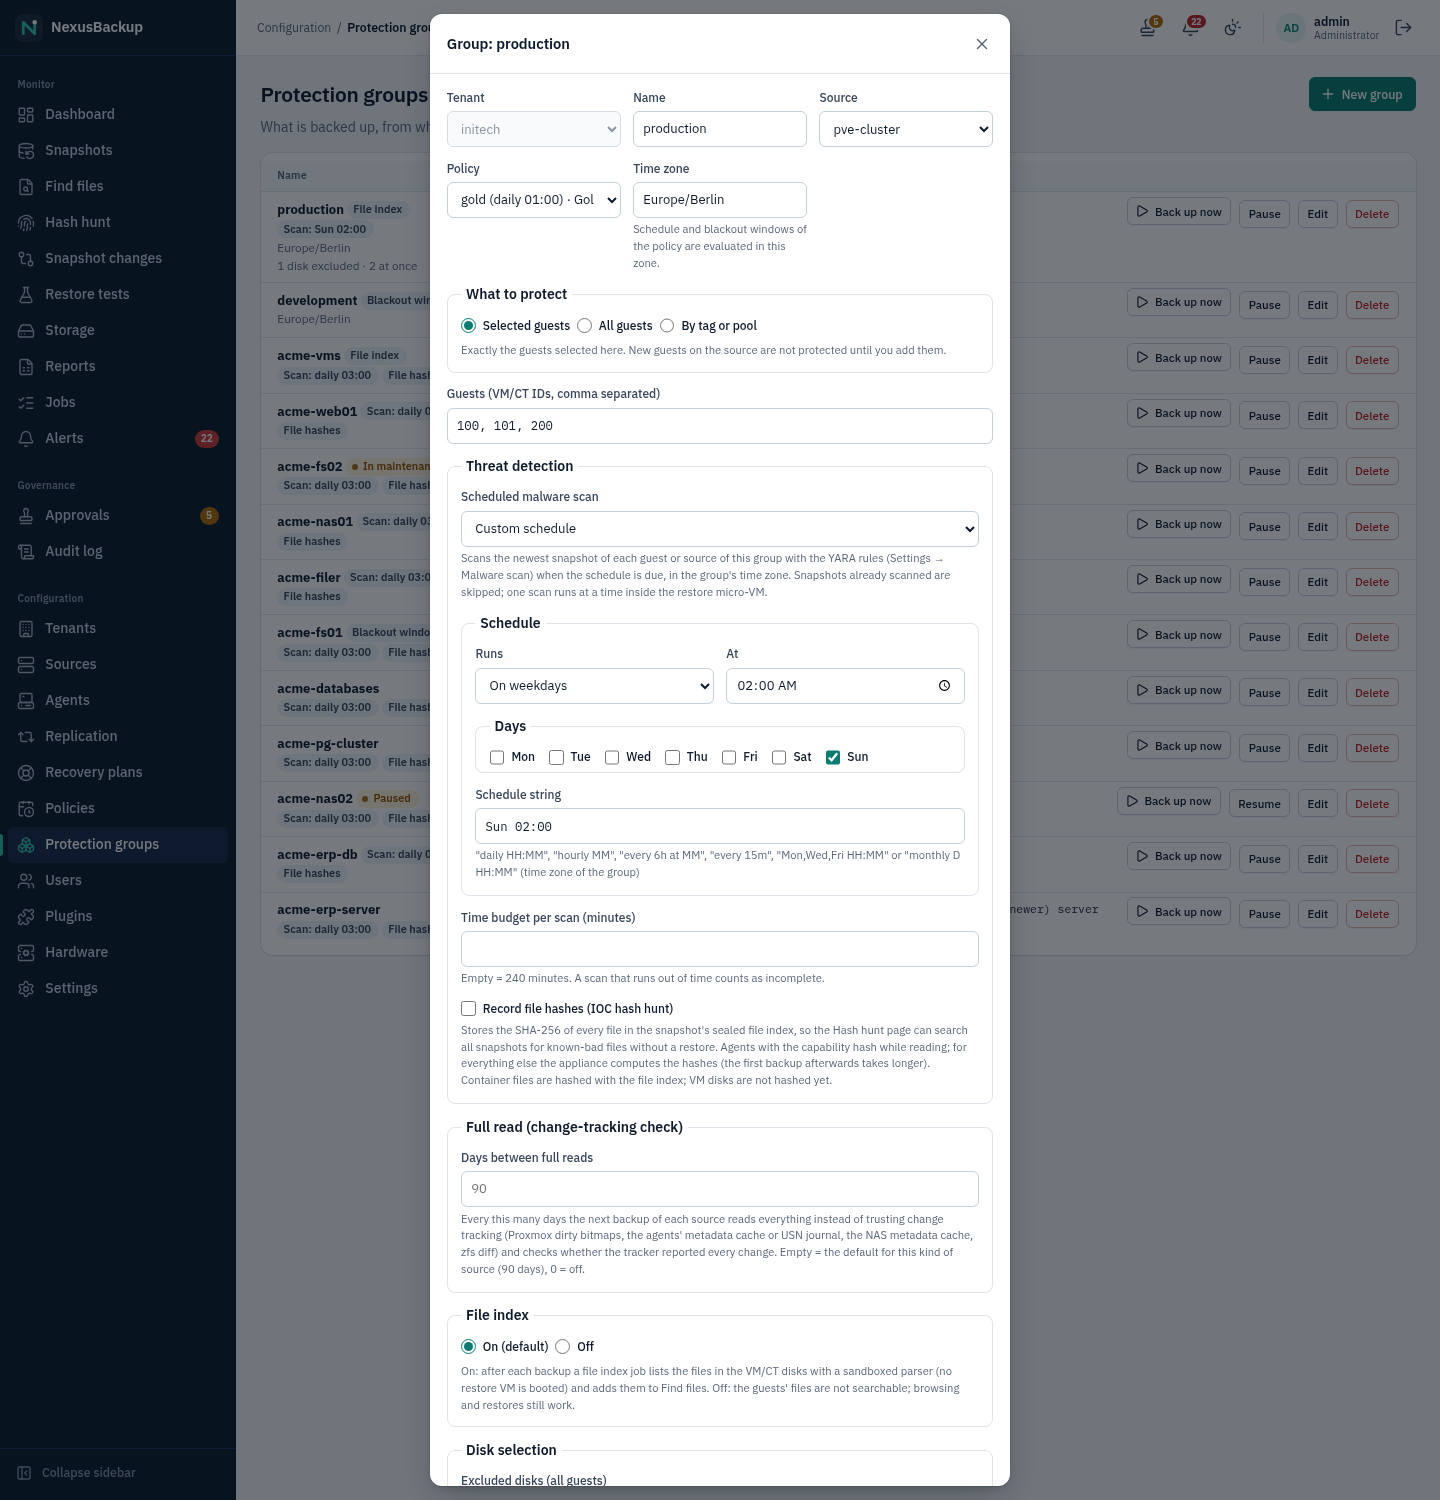
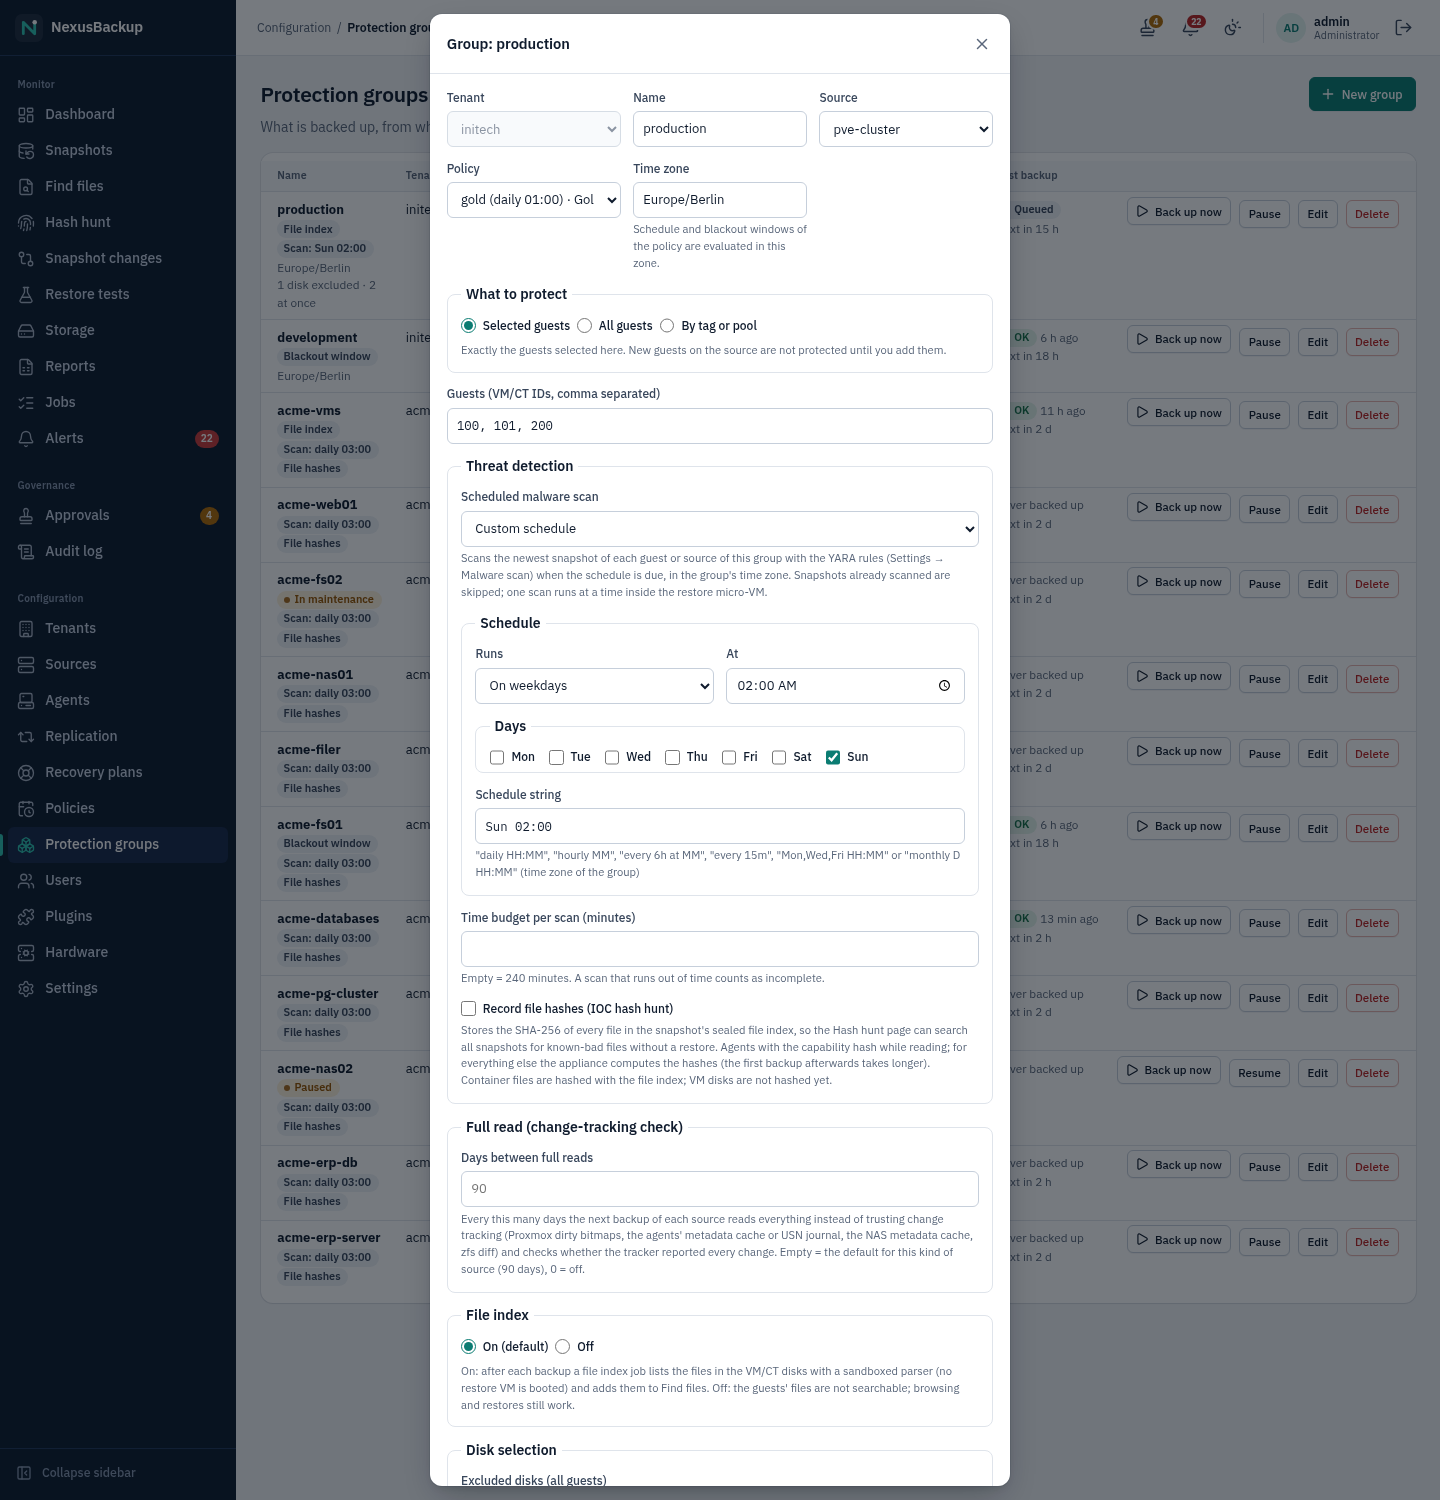
UI protection groups: last backup (state, when, link to the job) and the next scheduled start per group
GET /groups returns last_backup (newest backup job of the group, one pass over the
jobs) and next_backup (the policy schedule in the group's time zone).

diff --git a/web/src/pages/Groups.svelte b/web/src/pages/Groups.svelte
@@ -5,7 +5,8 @@
   import { get, post, put, del, act, errText } from '../lib/api';
   import { notify } from '../lib/notify.svelte';
   import { href } from '../lib/router.svelte';
-  import { fmtAgo, fmtBytes, fmtTime } from '../lib/format';
+  import { fmtAgo, fmtBytes, fmtIn, fmtTime } from '../lib/format';
+  import JobState from '../components/JobState.svelte';
   import { t } from '../lib/i18n';
   import { runJob } from '../lib/jobs';
   import { isPluginKind, pluginKinds } from '../lib/plugins';
@@ -447,6 +448,7 @@
             <th scope="col">{t.groups.source}</th>
             <th scope="col">{t.groups.policy}</th>
             <th scope="col">{t.groups.guestsShort}</th>
+            <th scope="col">{t.groups.lastBackup}</th>
             <th scope="col"><span class="visually-hidden">{t.actions}</span></th>
           </tr>
         </thead>
@@ -482,6 +484,21 @@
                     ? x.guests.map(guestText).join(', ')
                     : kindTitle(sources.find((s) => s.id === x.source_id)?.kind ?? '')}{/if}</td
               >
+              <td class="nowrap">
+                {#if x.last_backup}
+                  <a href={href(`/jobs/${x.last_backup.id}`)} class="plain-link"
+                    ><JobState state={x.last_backup.state} /></a
+                  >
+                  {#if x.last_backup.finished}<span class="muted small" title={fmtTime(x.last_backup.finished)}
+                      >{fmtAgo(x.last_backup.finished)}</span
+                    >{/if}
+                {:else}
+                  <span class="muted small">{t.groups.neverBackedUp}</span>
+                {/if}
+                {#if x.next_backup && !isPaused(x.paused_until)}<div class="muted small" title={fmtTime(x.next_backup)}>
+                    {t.groups.nextBackup(fmtIn(x.next_backup))}
+                  </div>{/if}
+              </td>
               <td class="actions">
                 {#if can.backup(session.user)}
                   <button

diff --git a/web/mock/api.ts b/web/mock/api.ts
@@ -1833,11 +1833,28 @@ function checkTz(tz: unknown): string {
 }
 
 /** GET /groups: run state (paused, source maintenance, active blackout window). */
+/** The next start of a policy schedule (demo: exact for `daily HH:MM` in UTC, else one period ahead). */
+function nextStart(schedule: string | undefined): number | null {
+  if (!schedule || !parseSchedule(schedule)) return null;
+  const d = /^daily (\d\d):(\d\d)$/.exec(schedule);
+  if (d) {
+    const day = Math.floor(now() / DAY) * DAY + Number(d[1]) * 3600 + Number(d[2]) * 60;
+    return day > now() ? day : day + DAY;
+  }
+  return now() + Math.max(300, schedulePeriod(schedule));
+}
+
 function groupState(g: (typeof db.groups)[number]) {
   const pol = db.policies.find((p) => p.id === g.policy_id);
   const src = db.sources.find((s) => s.id === g.source_id);
+  // like the API: the newest backup job of the group and the next scheduled start
+  const lastJob = db.jobs
+    .filter((j) => (j.kind === 'backup' || j.kind === 'plugin_backup') && j.params.group_id === g.id)
+    .sort((a, b) => b.id - a.id)[0];
   return {
     ...g,
+    last_backup: lastJob ? { id: lastJob.id, state: lastJob.state, started: lastJob.started, finished: lastJob.finished } : null,
+    next_backup: nextStart(pol?.schedule),
     timezone: g.timezone ?? 'UTC',
     paused_until: g.paused_until ?? null,
     index_files: g.index_files ?? false,

diff --git a/web/src/lib/format.ts b/web/src/lib/format.ts
@@ -15,6 +15,16 @@ export function fmtAgo(ts: number | null | undefined, now = Date.now() / 1000): 
   return t.ago.d(Math.round(d / 86400));
 }
 
+/** A time ahead as "in 25 min", "in 3 h", "in 2 d" ("now" when due). */
+export function fmtIn(ts: number | null | undefined, now = Date.now() / 1000): string {
+  if (!ts) return '—';
+  const d = ts - now;
+  if (d < 90) return t.inTime.now;
+  if (d < 5400) return t.inTime.min(Math.round(d / 60));
+  if (d < 129600) return t.inTime.h(Math.round(d / 3600));
+  return t.inTime.d(Math.round(d / 86400));
+}
+
 export function fmtBytes(n: number | null | undefined): string {
   if (n === null || n === undefined) return '—';
   const u = ['B', 'KiB', 'MiB', 'GiB', 'TiB', 'PiB'];

diff --git a/web/src/lib/i18n.ts b/web/src/lib/i18n.ts
@@ -48,6 +48,12 @@ export const en = {
     tenant_user: "Tenant user",
     viewer: "Viewer",
   } as Record<string, string>,
+  inTime: {
+    now: "now",
+    min: (n: number) => `in ${n} min`,
+    h: (n: number) => `in ${n} h`,
+    d: (n: number) => `in ${n} d`,
+  },
   ago: {
     never: "never",
     now: "just now",
@@ -1641,6 +1647,9 @@ export const en = {
     tierHint: "Shown in the SLA report and on the Tenants page.",
   },
   groups: {
+    lastBackup: "Last backup",
+    neverBackedUp: "never backed up",
+    nextBackup: (when: string) => `next ${when}`,
     title: "Protection groups",
     lede: "What is backed up, from which source and under which policy.",
     new: "New group",

diff --git a/web/src/lib/types.ts b/web/src/lib/types.ts
@@ -716,6 +716,9 @@ export interface FileFilters {
 }
 
 export interface Group {
+  /** GET /groups: the newest backup job of the group (null: never) and the next scheduled start (null: none) */
+  last_backup?: { id: number; state: JobState; started: number | null; finished: number | null } | null;
+  next_backup?: number | null;
   id: number;
   tenant: string;
   source_id: number;

diff --git a/crates/web-api/src/runctl.rs b/crates/web-api/src/runctl.rs
@@ -50,13 +50,38 @@ fn resolved_guests(c: &Connection, group_id: i64) -> ApiResult<Vec<Value>> {
 /// `resolved_guests` (what a backup of the group covers now).
 pub fn group_states(c: &Connection, mut rows: Vec<Value>) -> ApiResult<Vec<Value>> {
     let now = catalog::now();
+    // the newest backup job of every group (one pass over the jobs), for "last backup"
+    let mut last: std::collections::HashMap<i64, Value> = std::collections::HashMap::new();
+    let mut st = c.prepare(
+        "SELECT j.id, j.state, j.started, j.finished, json_extract(j.params, '$.group_id') FROM jobs j
+         JOIN (SELECT MAX(id) AS id FROM jobs WHERE kind IN ('backup', 'plugin_backup')
+               AND json_extract(params, '$.group_id') IS NOT NULL
+               GROUP BY json_extract(params, '$.group_id')) m ON m.id = j.id",
+    )?;
+    for r in st.query_map([], |r| {
+        Ok((
+            r.get::<_, i64>(4)?,
+            json!({"id": r.get::<_, i64>(0)?, "state": r.get::<_, String>(1)?,
+                   "started": r.get::<_, Option<i64>>(2)?, "finished": r.get::<_, Option<i64>>(3)?}),
+        ))
+    })? {
+        let (g, j) = r?;
+        last.insert(g, j);
+    }
     for g in rows.iter_mut() {
-        let (paused, maint, blackout): (Option<i64>, Option<i64>, String) = c.query_row(
-            "SELECT g.paused_until, s.maintenance_until, p.blackout FROM groups g
+        let (paused, maint, blackout, schedule): (Option<i64>, Option<i64>, String, String) = c.query_row(
+            "SELECT g.paused_until, s.maintenance_until, p.blackout, p.schedule FROM groups g
              JOIN sources s ON s.id = g.source_id JOIN policies p ON p.id = g.policy_id WHERE g.id = ?1",
             [g["id"].as_i64()],
-            |r| Ok((r.get(0)?, r.get(1)?, r.get(2)?)),
+            |r| Ok((r.get(0)?, r.get(1)?, r.get(2)?, r.get(3)?)),
         )?;
+        let id = g["id"].as_i64().unwrap_or_default();
+        g["last_backup"] = last.remove(&id).unwrap_or(Value::Null);
+        // when the policy's schedule next starts a backup (in the group's time zone)
+        g["next_backup"] = json!(schedule::Schedule::parse(&schedule)
+            .and_then(|s| s.in_tz(g["timezone"].as_str().unwrap_or("UTC")))
+            .ok()
+            .and_then(|s| s.next_slot(now)));
         let windows: Vec<Window> = serde_json::from_str(&blackout).unwrap_or_default();
         let active = schedule::tz(g["timezone"].as_str().unwrap_or("UTC"))
             .ok()

diff --git a/crates/web-api/tests/runctl.rs b/crates/web-api/tests/runctl.rs
@@ -537,3 +537,25 @@ async fn job_detail_lists_its_follow_ups() {
         2
     );
 }
+
+/// The groups list says how the last backup went and when the next one starts.
+#[tokio::test]
+async fn groups_show_last_and_next_backup() {
+    let t = T::new();
+    let alice = t.login("alice").await;
+    t.st.cat
+        .conn()
+        .execute_batch(
+            "INSERT INTO jobs (id, kind, tenant, params, state, requested_by, created, started, finished) VALUES
+               (60, 'backup', 'acme', '{\"group_id\":1}', 'failed', 'scheduler', 10, 11, 20),
+               (61, 'backup', 'acme', '{\"group_id\":1}', 'ok', 'scheduler', 30, 31, 40),
+               (62, 'retention', 'acme', '{\"group_id\":1,\"chain\":true}', 'ok', 'scheduler', 41, 41, 42);",
+        )
+        .unwrap();
+    let list = t.get("/api/v1/groups", &alice).await.body;
+    let g = |id: i64| list.as_array().unwrap().iter().find(|g| g["id"] == id).unwrap().clone();
+    assert_eq!((g(1)["last_backup"]["id"].clone(), g(1)["last_backup"]["state"].clone()), (json!(61), json!("ok")));
+    assert!(g(2)["last_backup"].is_null(), "never backed up");
+    let next = g(1)["next_backup"].as_i64().unwrap();
+    assert!(next > catalog::now() && next <= catalog::now() + 86400, "daily 22:00: within a day");
+}
